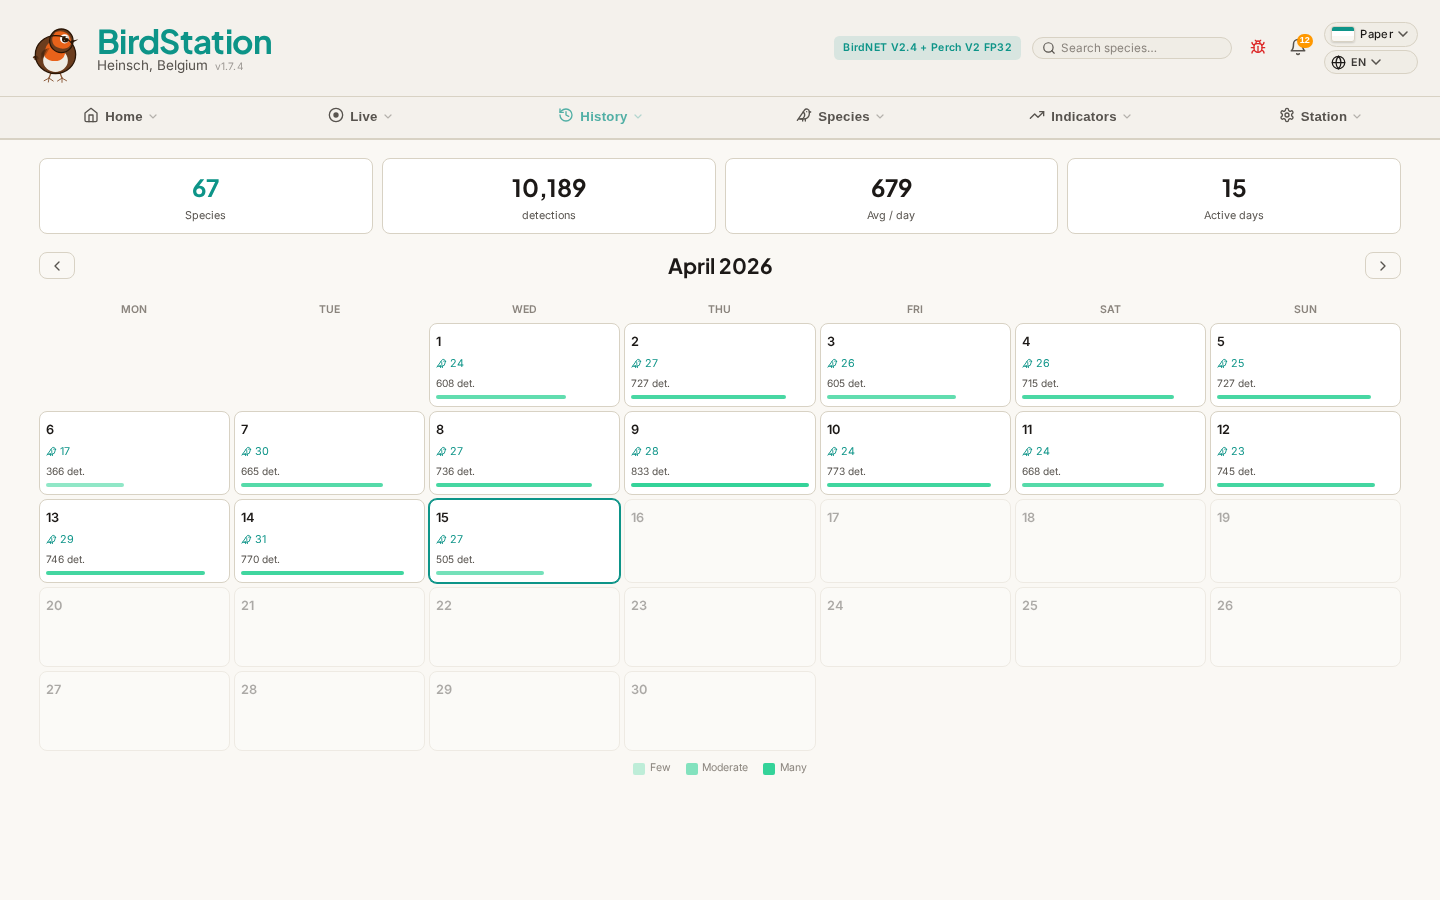
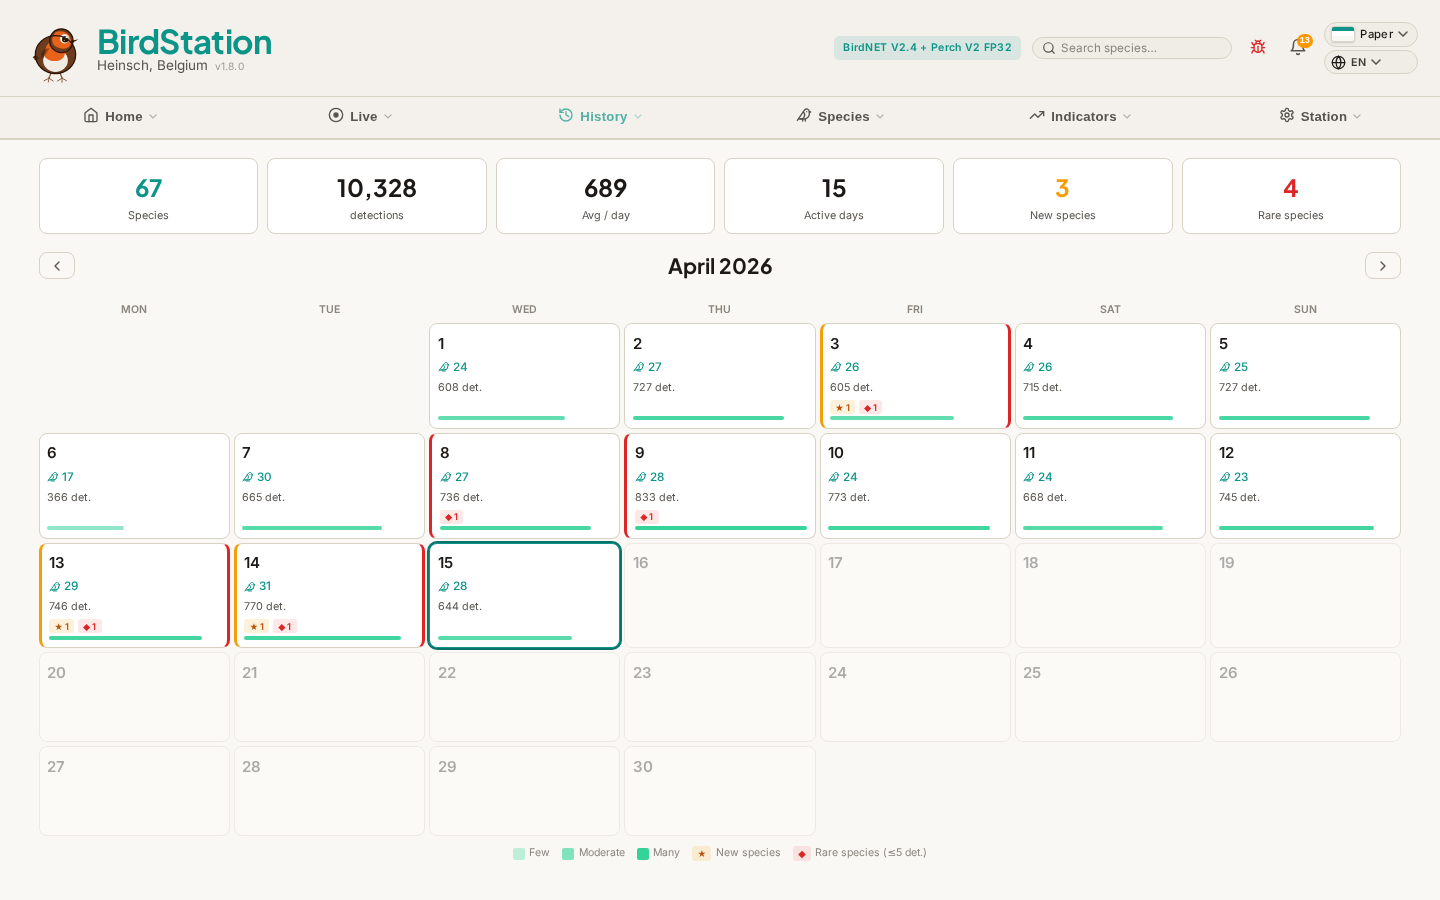
feat(calendar): enriched cells with new/rare species badges, 6 KPIs
- New species badge (★ gold): first-ever detection of a species
- Rare species badge (◆ red): species with ≤5 total detections
- Colored left border on cells with new (gold) or rare (red) species
- 2 new KPIs: "New species" and "Rare species" for the month
- Larger fonts: day numbers 1rem, species count .78rem
- Updated legend with badge explanations
- i18n keys added (4 languages)

diff --git a/public/calendar.html b/public/calendar.html
@@ -43,6 +43,14 @@
         <div class="cal-kpi-val blue">{{monthKpis.activeDays}}</div>
         <div class="cal-kpi-label">{{t('cal_active_days')}}</div>
       </div>
+      <div class="cal-kpi">
+        <div class="cal-kpi-val" style="color:#f59e0b;">{{monthKpis.newSpecies}}</div>
+        <div class="cal-kpi-label">{{t('cal_new_species')}}</div>
+      </div>
+      <div class="cal-kpi">
+        <div class="cal-kpi-val" style="color:var(--danger);">{{monthKpis.rareSpecies}}</div>
+        <div class="cal-kpi-label">{{t('cal_rare_species')}}</div>
+      </div>
     </div>
 
     <!-- Calendar header: ← Month Year → -->
@@ -66,15 +74,19 @@
     <div v-else class="cal-grid">
       <div v-for="(cell, i) in cells" :key="i"
            class="cal-cell"
-           :class="{ empty: !cell.day, today: cell.isToday, future: cell.isFuture }"
+           :class="{ empty: !cell.day, today: cell.isToday, future: cell.isFuture, 'has-new': cell.newSp > 0, 'has-rare': cell.rareSp > 0 }"
            @click="cell.day && !cell.isFuture ? openDay(cell.date) : null">
         <template v-if="cell.day">
           <div class="cal-day">{{cell.day}}</div>
           <div v-if="cell.sp > 0" class="cal-sp">
-            <bird-icon name="bird" :size="11"></bird-icon> {{cell.sp}}
+            <bird-icon name="bird" :size="12"></bird-icon> {{cell.sp}}
           </div>
           <div v-if="cell.det > 0" class="cal-det">{{cell.det.toLocaleString()}} det.</div>
           <div v-else-if="!cell.isFuture" class="cal-det" style="opacity:.3;">—</div>
+          <div v-if="cell.newSp > 0 || cell.rareSp > 0" class="cal-badges">
+            <span v-if="cell.newSp > 0" class="cal-badge cal-badge-new">★ {{cell.newSp}}</span>
+            <span v-if="cell.rareSp > 0" class="cal-badge cal-badge-rare">◆ {{cell.rareSp}}</span>
+          </div>
           <div class="cal-bar" :style="{ background: cell.det > 0 ? barColor(cell.det) : 'transparent', width: barWidth(cell.det) + '%' }"></div>
         </template>
       </div>
@@ -85,6 +97,8 @@
       <span style="display:flex;align-items:center;gap:.3rem;"><span class="cal-legend-swatch" style="background:rgba(52,211,153,.3);"></span> {{t('cal_few')}}</span>
       <span style="display:flex;align-items:center;gap:.3rem;"><span class="cal-legend-swatch" style="background:rgba(52,211,153,.6);"></span> {{t('cal_moderate')}}</span>
       <span style="display:flex;align-items:center;gap:.3rem;"><span class="cal-legend-swatch" style="background:rgba(52,211,153,1);"></span> {{t('cal_many')}}</span>
+      <span style="display:flex;align-items:center;gap:.3rem;"><span class="cal-badge cal-badge-new" style="font-size:.65rem;">★</span> {{t('cal_legend_new')}}</span>
+      <span style="display:flex;align-items:center;gap:.3rem;"><span class="cal-badge cal-badge-rare" style="font-size:.65rem;">◆</span> {{t('cal_legend_rare')}}</span>
     </div>
 
   </birdash-shell>
@@ -127,7 +141,8 @@ const app = createApp({
     });
 
     // Daily data from DB
-    const dailyData = ref({}); // { 'YYYY-MM-DD': { det, sp } }
+    const dailyData = ref({}); // { 'YYYY-MM-DD': { det, sp, newSp, rareSp } }
+    const monthMeta = ref({ totalSpecies: 0, newSpecies: 0, rareSpecies: 0 });
     let maxDet = 1;
 
     // Build calendar cells
@@ -137,12 +152,10 @@ const app = createApp({
       const lastDay = new Date(y, m + 1, 0);
       const daysInMonth = lastDay.getDate();
 
-      // Monday = 0 offset
       let startDow = firstDay.getDay() - 1;
       if (startDow < 0) startDow = 6;
 
       const result = [];
-      // Empty cells before first day
       for (let i = 0; i < startDow; i++) result.push({ day: 0 });
 
       for (let d = 1; d <= daysInMonth; d++) {
@@ -153,6 +166,8 @@ const app = createApp({
           date,
           det: data.det || 0,
           sp: data.sp || 0,
+          newSp: data.newSp || 0,
+          rareSp: data.rareSp || 0,
           isToday: date === todayStr,
           isFuture: date > todayStr,
         });
@@ -163,14 +178,16 @@ const app = createApp({
     // Monthly KPIs
     const monthKpis = computed(() => {
       const prefix = `${viewYear.value}-${String(viewMonth.value + 1).padStart(2, '0')}`;
-      const data = Object.entries(dailyData.value).filter(([d]) => d.startsWith(prefix) && d !== '_totalSpecies');
+      const data = Object.entries(dailyData.value).filter(([d]) => d.startsWith(prefix));
       const totalDet = data.reduce((s, [, v]) => s + (v.det || 0), 0);
       const activeDays = data.filter(([, v]) => v.det > 0).length;
       return {
-        species: dailyData.value._totalSpecies || '—',
+        species: monthMeta.value.totalSpecies || '—',
         detections: totalDet ? totalDet.toLocaleString() : '—',
         avgPerDay: activeDays > 0 ? Math.round(totalDet / activeDays).toLocaleString() : '—',
         activeDays: activeDays || '—',
+        newSpecies: monthMeta.value.newSpecies || 0,
+        rareSpecies: monthMeta.value.rareSpecies || 0,
       };
     });
 
@@ -190,9 +207,9 @@ const app = createApp({
       const from = `${y}-${String(m + 1).padStart(2, '0')}-01`;
       const to = `${y}-${String(m + 1).padStart(2, '0')}-${new Date(y, m + 1, 0).getDate()}`;
       try {
-        // Query detections directly with the same confidence threshold
-        // as today.html to ensure numbers match when clicking a day
         const conf = BIRD_CONFIG.defaultConfidence;
+
+        // 1. Daily counts
         const rows = await birdQuery(
           `SELECT Date as date, COUNT(*) as det, COUNT(DISTINCT Com_Name) as sp
            FROM active_detections WHERE Date >= ? AND Date <= ? AND Confidence >= ?
@@ -201,20 +218,54 @@ const app = createApp({
         );
         const map = {};
         let mx = 1;
-        const allSpecies = new Set();
         for (const r of rows) {
-          map[r.date] = { det: r.det, sp: r.sp };
+          map[r.date] = { det: r.det, sp: r.sp, newSp: 0, rareSp: 0 };
           if (r.det > mx) mx = r.det;
         }
 
-        // Distinct species for the month KPI
+        // 2. New species: first-ever detection date per species, keep those in this month
+        const newRows = await birdQuery(
+          `SELECT Com_Name, MIN(Date) as first_date
+           FROM active_detections WHERE Confidence >= ?
+           GROUP BY Com_Name
+           HAVING first_date >= ? AND first_date <= ?`,
+          [conf, from, to]
+        );
+        const newSpeciesSet = new Set();
+        for (const r of newRows) {
+          if (map[r.first_date]) map[r.first_date].newSp++;
+          newSpeciesSet.add(r.Com_Name);
+        }
+
+        // 3. Rare species (≤5 total detections ever) detected this month
+        const rareRows = await birdQuery(
+          `SELECT d.Date as date, d.Com_Name
+           FROM active_detections d
+           INNER JOIN (
+             SELECT Com_Name FROM active_detections WHERE Confidence >= ?
+             GROUP BY Com_Name HAVING COUNT(*) <= 5
+           ) rare ON d.Com_Name = rare.Com_Name
+           WHERE d.Date >= ? AND d.Date <= ? AND d.Confidence >= ?
+           GROUP BY d.Date, d.Com_Name`,
+          [conf, from, to, conf]
+        );
+        const rareSpeciesSet = new Set();
+        for (const r of rareRows) {
+          if (map[r.date]) map[r.date].rareSp++;
+          rareSpeciesSet.add(r.Com_Name);
+        }
+
+        // 4. Distinct species for the month KPI
         const spRows = await birdQuery(
           `SELECT DISTINCT Com_Name FROM active_detections WHERE Date >= ? AND Date <= ? AND Confidence >= ?`,
           [from, to, conf]
         );
-        for (const r of spRows) allSpecies.add(r.Com_Name);
 
-        map._totalSpecies = allSpecies.size;
+        monthMeta.value = {
+          totalSpecies: spRows.length,
+          newSpecies: newSpeciesSet.size,
+          rareSpecies: rareSpeciesSet.size,
+        };
         dailyData.value = map;
         maxDet = mx;
       } catch (e) { console.error('[calendar]', e); }
@@ -242,7 +293,7 @@ const app = createApp({
     return {
       t, lang, loading,
       viewYear, viewMonth, isCurrentMonth, monthLabel, dowLabels,
-      cells, monthKpis, dailyData,
+      cells, monthKpis, monthMeta, dailyData,
       barColor, barWidth,
       prevMonth, nextMonth, openDay,
     };

diff --git a/public/css/bird-pages.css b/public/css/bird-pages.css
@@ -2688,29 +2688,38 @@
     .cal-dow { text-align:center; font-size:.7rem; color:var(--text-faint); padding:.3rem 0; font-weight:600; text-transform:uppercase; }
     .cal-cell {
       background:var(--bg-card); border:1px solid var(--border); border-radius:var(--radius);
-      padding:.5rem .4rem; min-height:80px; cursor:pointer; transition:border-color .15s, transform .15s;
-      display:flex; flex-direction:column; gap:.2rem; position:relative;
+      padding:.5rem .5rem; min-height:90px; cursor:pointer; transition:border-color .15s, transform .15s, box-shadow .15s;
+      display:flex; flex-direction:column; gap:.15rem; position:relative; overflow:hidden;
     }
-    .cal-cell:hover { border-color:var(--accent); transform:translateY(-1px); }
-    .cal-cell.today { border-color:var(--accent); box-shadow:0 0 0 1px var(--accent); }
+    .cal-cell:hover { border-color:var(--accent); transform:translateY(-1px); box-shadow:0 2px 8px rgba(0,0,0,.06); }
+    .cal-cell.today { border-color:var(--accent); box-shadow:0 0 0 2px var(--accent-dim); }
     .cal-cell.empty { background:transparent; border-color:transparent; cursor:default; min-height:auto; }
-    .cal-cell.empty:hover { transform:none; border-color:transparent; }
+    .cal-cell.empty:hover { transform:none; border-color:transparent; box-shadow:none; }
     .cal-cell.future { opacity:.35; cursor:default; }
-    .cal-cell.future:hover { transform:none; border-color:var(--border); }
-    .cal-day { font-size:.85rem; font-weight:600; }
-    .cal-sp { font-size:.72rem; color:var(--accent); display:flex; align-items:center; gap:.2rem; }
-    .cal-det { font-size:.68rem; color:var(--text-muted); }
+    .cal-cell.future:hover { transform:none; border-color:var(--border); box-shadow:none; }
+    .cal-cell.has-new { border-left:3px solid #f59e0b; }
+    .cal-cell.has-rare { border-left:3px solid var(--danger); }
+    .cal-cell.has-new.has-rare { border-left:3px solid #f59e0b; border-right:3px solid var(--danger); }
+    .cal-day { font-size:1rem; font-weight:700; }
+    .cal-sp { font-size:.78rem; color:var(--accent); display:flex; align-items:center; gap:.2rem; font-weight:500; }
+    .cal-det { font-size:.72rem; color:var(--text-muted); }
+    .cal-badges { display:flex; flex-wrap:wrap; gap:.25rem; margin-top:.1rem; }
+    .cal-badge { font-size:.62rem; font-weight:600; padding:.1rem .35rem; border-radius:3px; line-height:1.2; white-space:nowrap; }
+    .cal-badge-new { background:rgba(245,158,11,.15); color:#b45309; }
+    .cal-badge-rare { background:rgba(239,68,68,.12); color:var(--danger); }
     .cal-bar { height:4px; border-radius:2px; margin-top:auto; }
-    .cal-kpis { display:grid; grid-template-columns:repeat(auto-fit,minmax(140px,1fr)); gap:.6rem; margin-bottom:1rem; }
+    .cal-kpis { display:grid; grid-template-columns:repeat(auto-fit,minmax(120px,1fr)); gap:.6rem; margin-bottom:1rem; }
     .cal-kpi { background:var(--bg-card); border:1px solid var(--border); border-radius:var(--radius); padding:.6rem .8rem; text-align:center; }
     .cal-kpi-val { font-family:var(--font-display); font-size:1.6rem; font-weight:700; }
     .cal-kpi-label { font-size:.72rem; color:var(--text-muted); }
-    .cal-legend { display:flex; gap:1rem; justify-content:center; margin-top:.6rem; font-size:.7rem; color:var(--text-faint); align-items:center; }
+    .cal-legend { display:flex; flex-wrap:wrap; gap:.8rem; justify-content:center; margin-top:.6rem; font-size:.7rem; color:var(--text-faint); align-items:center; }
     .cal-legend-swatch { width:12px; height:12px; border-radius:2px; }
     @media (max-width:640px) {
-      .cal-cell { min-height:60px; padding:.3rem; }
-      .cal-day { font-size:.75rem; }
+      .cal-cell { min-height:65px; padding:.3rem; }
+      .cal-day { font-size:.82rem; }
       .cal-sp, .cal-det { font-size:.65rem; }
+      .cal-badges { gap:.15rem; }
+      .cal-badge { font-size:.55rem; padding:.05rem .25rem; }
     }
 
 /* ── review.html */
